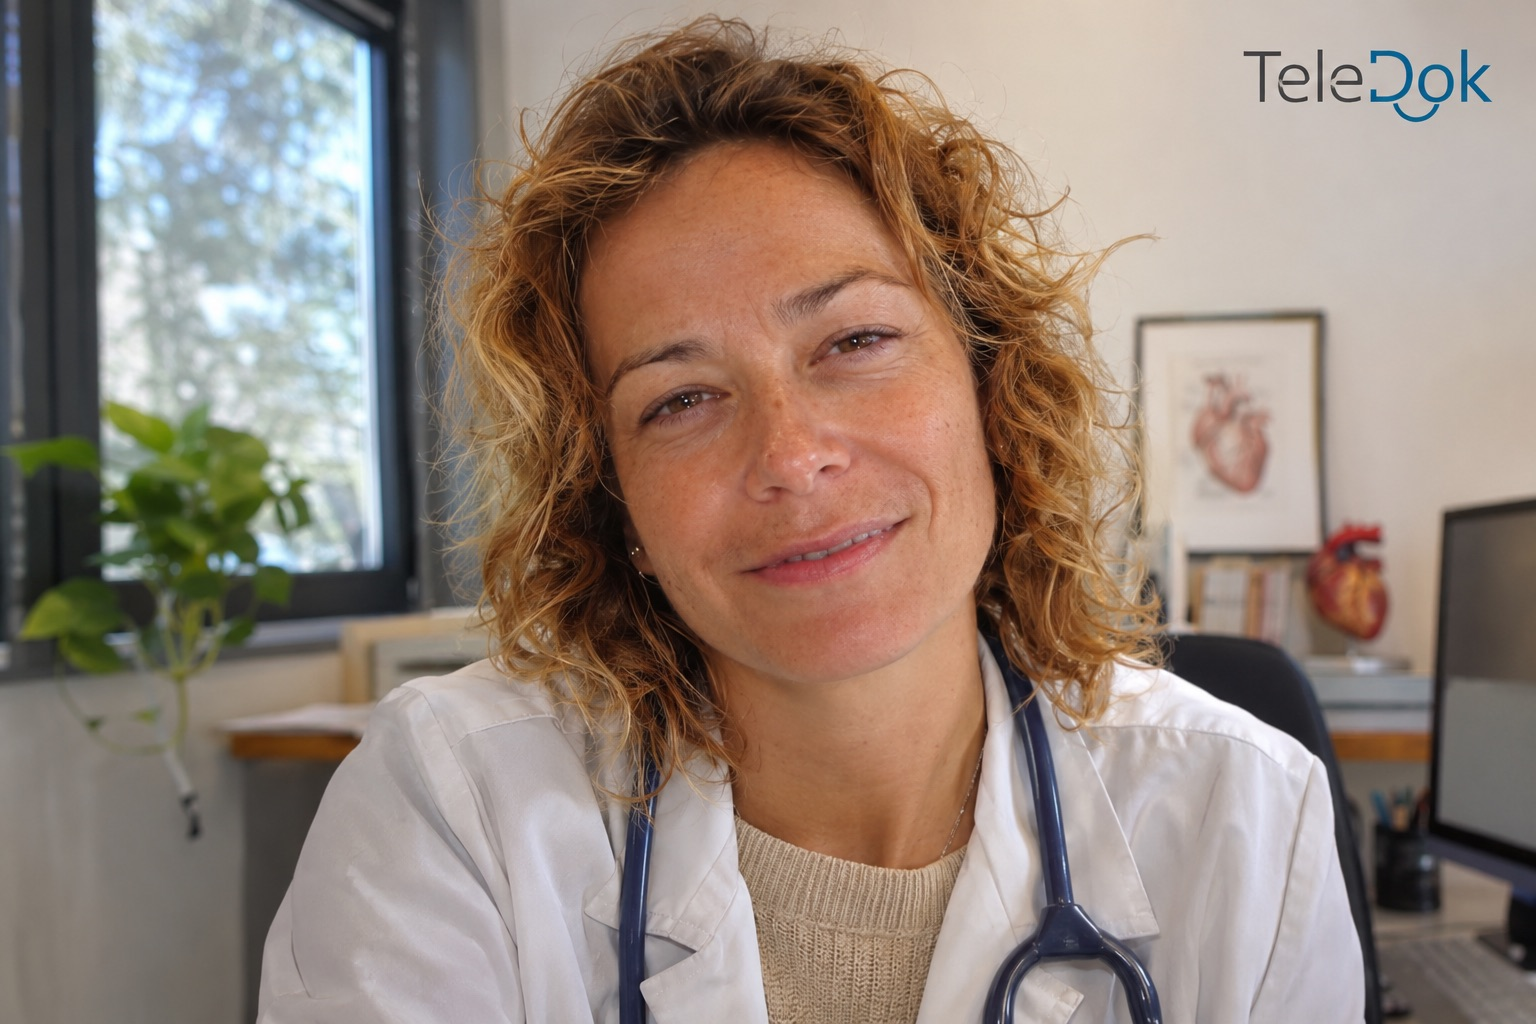
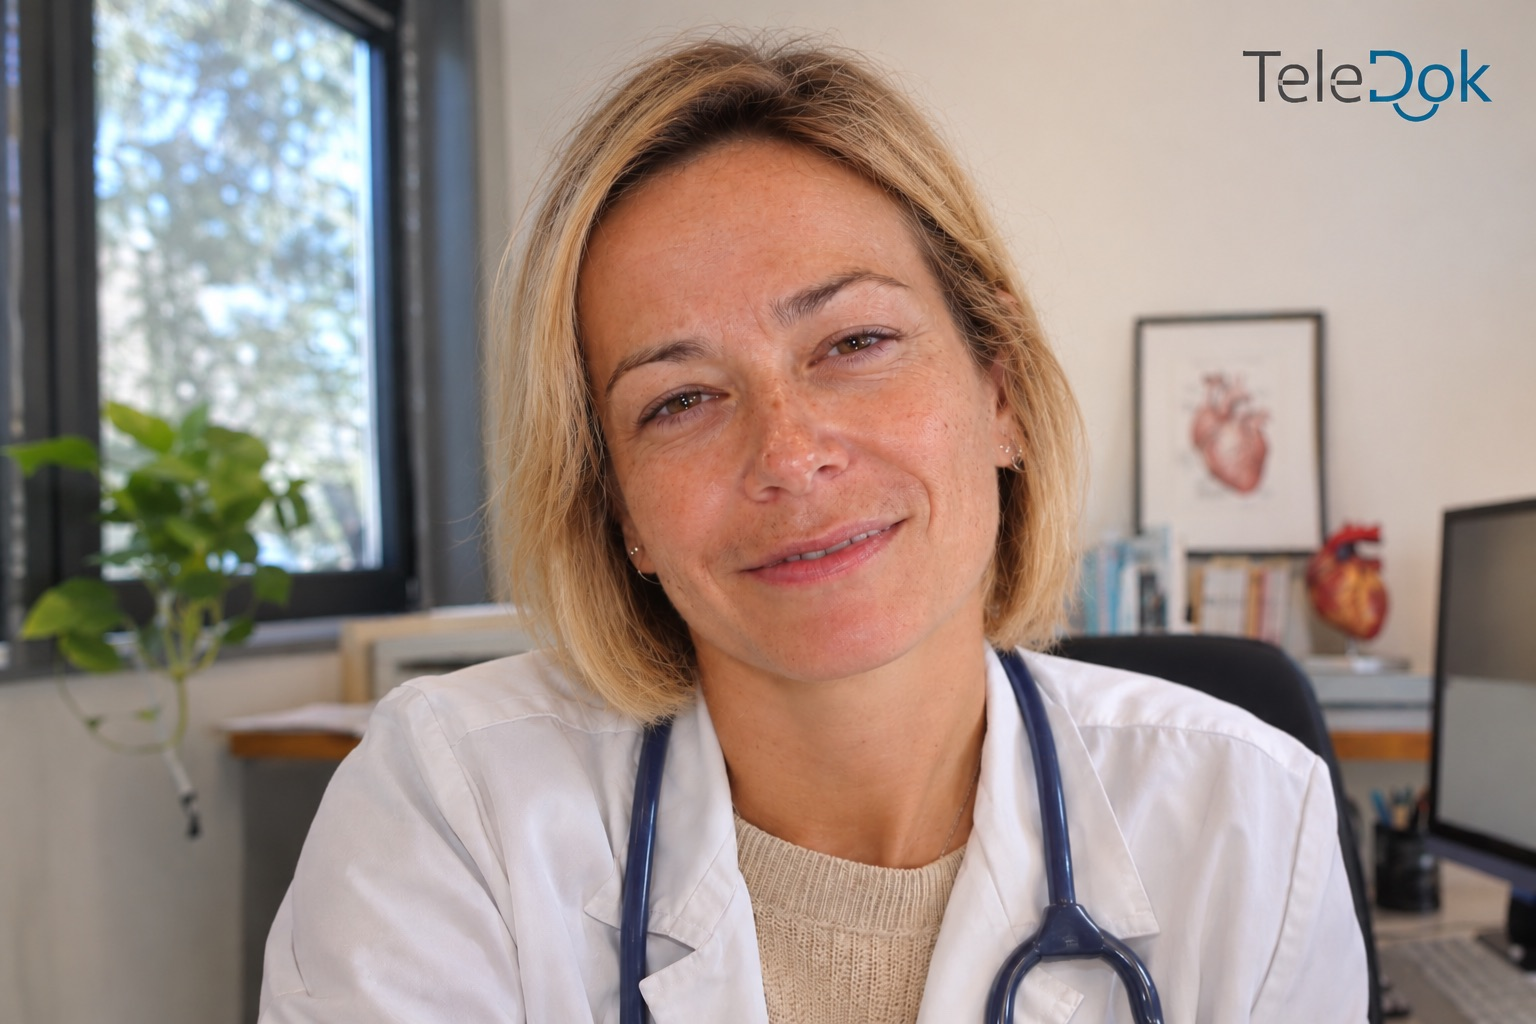
En-tête « Construisons votre projet », bouton flottant « Rejoindre Teledok », pied de page ; réseau à 16 praticiens
- En-tête : bouton « Construisons votre projet » (bleu) à la place du lien Partenaires ; libellés renommés partout
- Bouton flottant « Rejoindre Teledok » (ambre), masqué sur le bouton du hero de l'accueil et sur la candidature Médecins
- Pied de page : lien « Rejoindre Teledok », bouton Organisations bleu, lien Médecins dans le plan du site
- Teledok : grille du réseau étendue à 16 portraits (4 × 4), 3 portraits remplacés, bouton pause sur le coin du cadre

diff --git a/src/styles/site.css b/src/styles/site.css
@@ -1215,6 +1215,31 @@ select.fld {
 .hdr-join {
   margin-left: 8px;
 }
+/* Bouton « Rejoindre Teledok » flottant (FloatingJoin.tsx) : en bas à droite, centré en bas sur mobile.
+   Liseré blanc pour rester visible sur les bandeaux bleus ; sous l'en-tête (z-index 20) et son menu mobile. */
+.float-join {
+  position: fixed;
+  right: 28px;
+  bottom: 28px;
+  z-index: 15;
+  border-color: #fff;
+  box-shadow: 0 12px 32px rgba(10, 40, 60, 0.28);
+  transition:
+    opacity 0.3s ease,
+    visibility 0.3s;
+}
+.float-join.is-hidden {
+  opacity: 0;
+  visibility: hidden;
+}
+@media (max-width: 639.98px) {
+  .float-join {
+    right: auto;
+    bottom: 20px;
+    left: 50%;
+    transform: translateX(-50%);
+  }
+}
 .burger {
   display: none;
   align-items: center;
@@ -1324,7 +1349,8 @@ select.fld {
 }
 .ftr-in {
   padding-top: 64px;
-  padding-bottom: 32px;
+  /* Place pour le bouton flottant « Rejoindre Teledok » : il ne recouvre pas la dernière ligne. */
+  padding-bottom: 104px;
 }
 .ftr-cols {
   display: grid;
@@ -1360,6 +1386,10 @@ select.fld {
 }
 .ftr-cta {
   margin-bottom: 18px;
+}
+/* Bouton bleu (comme celui de l'en-tête) sur le fond bleu du pied de page : liseré blanc pour le détacher. */
+.ftr .ftr-btn {
+  border-color: #fff;
 }
 .ftr-bottom {
   margin-top: 56px;
@@ -2092,11 +2122,19 @@ select.fld {
     transition: opacity 0.6s ease;
   }
 }
+/* Bouton pause à cheval sur le coin du cadre : il ne masque aucun visage de la grille. */
 .pg-teledok .visio .vbtn {
-  right: 18px;
-  bottom: 18px;
-  width: 40px;
-  height: 40px;
+  right: -14px;
+  bottom: -14px;
+  z-index: 3;
+  width: 44px;
+  height: 44px;
+  border-color: #fff;
+  background: var(--blue-footer);
+  box-shadow: 0 8px 20px rgba(10, 40, 60, 0.25);
+}
+.pg-teledok .visio .vbtn:hover {
+  background: var(--blue);
 }
 
 .pg-teledok .hero-h1 {

diff --git a/src/components/Footer.tsx b/src/components/Footer.tsx
@@ -42,7 +42,10 @@ export async function Footer({ cta = 'medecins' }: { cta?: 'medecins' | 'partena
                 <Link href={ROUTES.recherche}>Recherche &amp; publications</Link>
               </li>
               <li>
-                <Link href={ROUTES.partenaires}>Partenaires</Link>
+                <Link href={ROUTES.medecins}>Médecins</Link>
+              </li>
+              <li>
+                <Link href={ROUTES.partenaires}>Construisons votre projet</Link>
               </li>
             </ul>
           </nav>
@@ -57,7 +60,8 @@ export async function Footer({ cta = 'medecins' }: { cta?: 'medecins' | 'partena
             <div>
               <p className="label ftr-t">Médecins</p>
               <p className="ftr-cta">Candidature réservée aux professionnels de santé inscrits au RPPS.</p>
-              <Link className="btn btn-amber" href={ROUTES.medecins}>
+              {/* Simple lien : le bouton flottant « Rejoindre Teledok » est déjà affiché à côté. */}
+              <Link className="ftr-contact" href={ROUTES.medecins}>
                 Rejoindre Teledok
               </Link>
             </div>
@@ -65,8 +69,8 @@ export async function Footer({ cta = 'medecins' }: { cta?: 'medecins' | 'partena
             <div>
               <p className="label ftr-t">Organisations</p>
               <p className="ftr-cta">Mutuelles, entreprises, professionnels de santé, collectivités.</p>
-              <Link className="btn btn-amber" href={ROUTES.partenaires}>
-                Devenir partenaire
+              <Link className="btn btn-primary ftr-btn" href={ROUTES.partenaires}>
+                Construisons votre projet
               </Link>
             </div>
           )}

diff --git a/src/components/Visios.tsx b/src/components/Visios.tsx
@@ -13,10 +13,12 @@ const ETAPES = [
   { count: 4, cols: 2, rows: 2, ms: 1900 },
   { count: 6, cols: 3, rows: 2, ms: 1900 },
   { count: 9, cols: 3, rows: 3, ms: 1900 },
-  { count: 12, cols: 4, rows: 3, ms: 3000 },
+  { count: 12, cols: 4, rows: 3, ms: 1900 },
+  // Grille finale 4 × 4 : mêmes proportions que l'écran (3:2), elle le remplit sans bandes vides.
+  { count: 16, cols: 4, rows: 4, ms: 3000 },
 ]
 // Une tuile du centre de la grille finale (2e ligne, 2e colonne) s'agrandit pour ouvrir le cycle
-// suivant. 5 et 12 n'ayant pas de diviseur commun, chaque praticien ouvre un cycle à son tour.
+// suivant. 5 et 16 n'ayant pas de diviseur commun, chaque praticien ouvre un cycle à son tour.
 const RELAIS = 5
 // Calculs dans un écran de 1,5 × 1 (format 3:2) : marge et espacement des grilles.
 const RATIO = 1.5
@@ -56,7 +58,7 @@ function slot(p: number, debut: number, e: number, n: number) {
 
 /**
  * Portraits de praticiens en visio, en boucle (page Teledok) : « le réseau se constitue ». Un praticien
- * seul à l'écran, puis 2, 4, 6, 9 et 12 réunis en grille, comme des participants qui rejoignent l'appel ;
+ * seul à l'écran, puis 2, 4, 6, 9, 12 et 16 réunis en grille, comme des participants qui rejoignent l'appel ;
  * une tuile du centre s'agrandit ensuite pour ouvrir le cycle suivant. Les tuiles glissent et se
  * redimensionnent d'une étape à l'autre ; celles qui arrivent apparaissent sur place, celles qui
  * partent s'effacent sur place.

diff --git a/src/components/FloatingJoin.tsx b/src/components/FloatingJoin.tsx
@@ -1,0 +1,39 @@
+'use client'
+
+import { useEffect, useState } from 'react'
+import Link from 'next/link'
+import { usePathname } from 'next/navigation'
+import { cx } from '@/lib/cx'
+
+/**
+ * Bouton « Rejoindre Teledok » flottant, en bas à droite de l'écran (centré en bas sur mobile),
+ * sur le modèle du site Doxamed mais sans animation. Passe sous l'en-tête : le menu mobile ouvert le recouvre.
+ * Il s'efface tant qu'un élément marqué data-hide-float est à l'écran (bouton de l'ouverture de l'accueil,
+ * formulaire de candidature de la page Médecins), pour ne pas faire doublon.
+ */
+export function FloatingJoin({ href }: { href: string }) {
+  const pathname = usePathname()
+  const [hidden, setHidden] = useState(false)
+
+  useEffect(() => {
+    const targets = document.querySelectorAll('[data-hide-float]')
+    setHidden(false)
+    if (!targets.length) return
+    const visibles = new Set<Element>()
+    const io = new IntersectionObserver((entries) => {
+      for (const e of entries) {
+        if (e.isIntersecting) visibles.add(e.target)
+        else visibles.delete(e.target)
+      }
+      setHidden(visibles.size > 0)
+    })
+    targets.forEach((t) => io.observe(t))
+    return () => io.disconnect()
+  }, [pathname])
+
+  return (
+    <Link className={cx('btn btn-amber float-join', { 'is-hidden': hidden })} href={href} aria-hidden={hidden || undefined} tabIndex={hidden ? -1 : undefined}>
+      Rejoindre Teledok
+    </Link>
+  )
+}

diff --git a/src/components/PageShell.tsx b/src/components/PageShell.tsx
@@ -1,5 +1,6 @@
 import type { ReactNode } from 'react'
-import type { RouteKey } from '@/lib/site'
+import { ROUTES, type RouteKey } from '@/lib/site'
+import { FloatingJoin } from './FloatingJoin'
 import { Header } from './Header'
 import { Footer } from './Footer'
 import { SiteBehaviors } from './SiteBehaviors'
@@ -11,7 +12,7 @@ type Props = {
   current?: RouteKey
   /** En-tête transparent posé sur le visuel d'ouverture (accueil). */
   overlayHeader?: boolean
-  /** Cible du bouton « Rejoindre Teledok » de l'en-tête. */
+  /** Cible du bouton flottant « Rejoindre Teledok ». */
   joinHref?: string
   /** Dernière colonne du pied de page. */
   footerCta?: 'medecins' | 'partenaires'
@@ -19,14 +20,22 @@ type Props = {
 }
 
 /** Habillage commun à toutes les pages : en-tête, contenu, pied de page. */
-export function PageShell({ page, current, overlayHeader = false, joinHref, footerCta = 'medecins', children }: Props) {
+export function PageShell({
+  page,
+  current,
+  overlayHeader = false,
+  joinHref = ROUTES.medecins,
+  footerCta = 'medecins',
+  children,
+}: Props) {
   return (
     <>
-      <Header current={current} overlay={overlayHeader} joinHref={joinHref} />
+      <Header current={current} overlay={overlayHeader} />
       <main id="contenu" className={page} tabIndex={-1}>
         {children}
       </main>
       <Footer cta={footerCta} />
+      <FloatingJoin href={joinHref} />
       <SiteBehaviors />
     </>
   )

diff --git a/src/components/Header.tsx b/src/components/Header.tsx
@@ -10,8 +10,6 @@ type Props = {
   current?: RouteKey
   /** En-tête transparent posé sur le visuel d'ouverture (accueil). */
   overlay?: boolean
-  /** Cible du bouton « Rejoindre Teledok ». */
-  joinHref?: string
 }
 
 const LOGO_HEIGHT = 34
@@ -23,7 +21,7 @@ const LOGO_STYLE = { height: LOGO_HEIGHT, width: 'auto' }
  * En-tête du site. L'état au défilement (accueil) et le menu des écrans
  * étroits sont pilotés par SiteBehaviors.
  */
-export function Header({ current, overlay = false, joinHref = ROUTES.medecins }: Props) {
+export function Header({ current, overlay = false }: Props) {
   return (
     <header className={cx('site-hdr', { 'site-hdr--overlay': overlay })} data-header>
       <div className="hdr">
@@ -64,8 +62,13 @@ export function Header({ current, overlay = false, joinHref = ROUTES.medecins }:
                 {item.label}
               </Link>
             ))}
-            <Link className="btn btn-amber hdr-join" href={joinHref}>
-              Rejoindre Teledok
+            {/* Page Partenaires, présentée comme l'action principale pour les organisations. */}
+            <Link
+              className="btn btn-primary hdr-join"
+              href={ROUTES.partenaires}
+              aria-current={current === 'partenaires' ? 'page' : undefined}
+            >
+              Construisons votre projet
             </Link>
           </nav>
         </div>

diff --git a/src/app/(site)/page.tsx b/src/app/(site)/page.tsx
@@ -98,7 +98,8 @@ export default async function Page() {
               les patients comme pour les praticiens.
             </p>
             <div className="hero-in3 btns">
-              <Link className="btn btn-amber" href={ROUTES.medecins}>
+              {/* Tant que ce bouton est visible, le bouton flottant « Rejoindre Teledok » est masqué. */}
+              <Link className="btn btn-amber" href={ROUTES.medecins} data-hide-float>
                 Rejoindre Teledok
               </Link>
               <a className="btn btn-ghost" href="#methode">
@@ -427,7 +428,7 @@ export default async function Page() {
               <h2 className="h2 home-cta-t">Vous êtes une organisation ?</h2>
               <p>Déployer des parcours de téléconsultation rigoureux et évalués, au service de vos publics.</p>
               <Link className="btn btn-primary" href={ROUTES.partenaires}>
-                Devenir partenaire
+                Construisons votre projet
               </Link>
             </div>
           </div>

diff --git a/src/lib/site.ts b/src/lib/site.ts
@@ -14,14 +14,13 @@ export const ROUTES = {
 
 export type RouteKey = keyof typeof ROUTES
 
-/** Navigation principale (en-tête). */
+/** Navigation principale (en-tête). La page Partenaires y est le bouton « Construisons votre projet ». */
 export const NAV: { key: RouteKey; label: string }[] = [
   { key: 'teledok', label: 'Qui sommes-nous ?' },
   { key: 'methode', label: 'Notre méthode' },
   { key: 'realisations', label: 'Réalisations' },
   { key: 'recherche', label: 'Recherche' },
   { key: 'medecins', label: 'Médecins' },
-  { key: 'partenaires', label: 'Partenaires' },
 ]
 
 export const SITE_URL = process.env.NEXT_PUBLIC_SITE_URL || 'http://localhost:3087'

diff --git a/src/app/(site)/medecins/page.tsx b/src/app/(site)/medecins/page.tsx
@@ -253,7 +253,8 @@ export default async function Page() {
         </div>
       </section>
 
-      <section id="candidature" className="bg-cream clip" aria-labelledby="cand-t">
+      {/* Pendant que le formulaire est à l'écran, le bouton flottant « Rejoindre Teledok » (qui y mène) est masqué. */}
+      <section id="candidature" className="bg-cream clip" aria-labelledby="cand-t" data-hide-float>
         <div
           className="blob"
           aria-hidden="true"

diff --git a/src/app/(site)/notre-methode/page.tsx b/src/app/(site)/notre-methode/page.tsx
@@ -198,7 +198,7 @@ export default function Page() {
               <h2 className="h2 h2--sm">Vous êtes une organisation ?</h2>
               <p>Déployer des parcours de téléconsultation rigoureux et évalués, au service de vos publics.</p>
               <Link className="btn btn-primary" href={ROUTES.partenaires}>
-                Devenir partenaire
+                Construisons votre projet
               </Link>
             </div>
           </div>

diff --git a/src/components/Orientation.tsx b/src/components/Orientation.tsx
@@ -22,7 +22,7 @@ export function Orientation() {
         <h2 className="h2 h2--sm">Vous êtes une organisation ?</h2>
         <p>Déployer des parcours de téléconsultation rigoureux et évalués, au service de vos publics.</p>
         <Link className="btn btn-primary" href={ROUTES.partenaires}>
-          Devenir partenaire
+          Construisons votre projet
         </Link>
       </div>
     </>

diff --git a/src/app/(site)/realisations/page.tsx b/src/app/(site)/realisations/page.tsx
@@ -70,7 +70,7 @@ export default async function Page() {
               <p>Déployer des parcours de téléconsultation rigoureux et évalués, au service de vos publics.</p>
             </div>
             <Link className="btn btn-primary" href={ROUTES.partenaires}>
-              Devenir partenaire
+              Construisons votre projet
             </Link>
           </div>
         </div>
